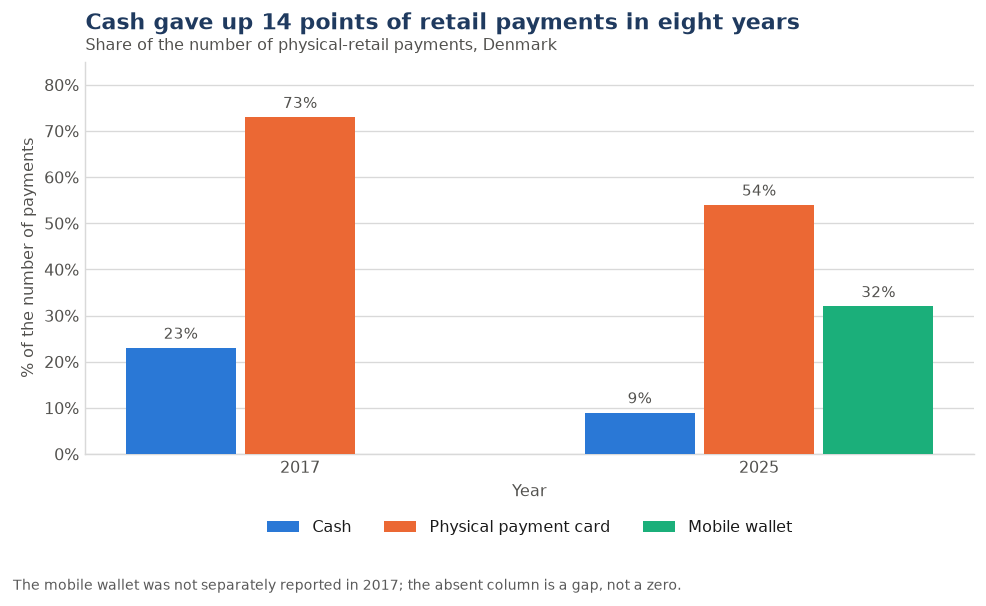
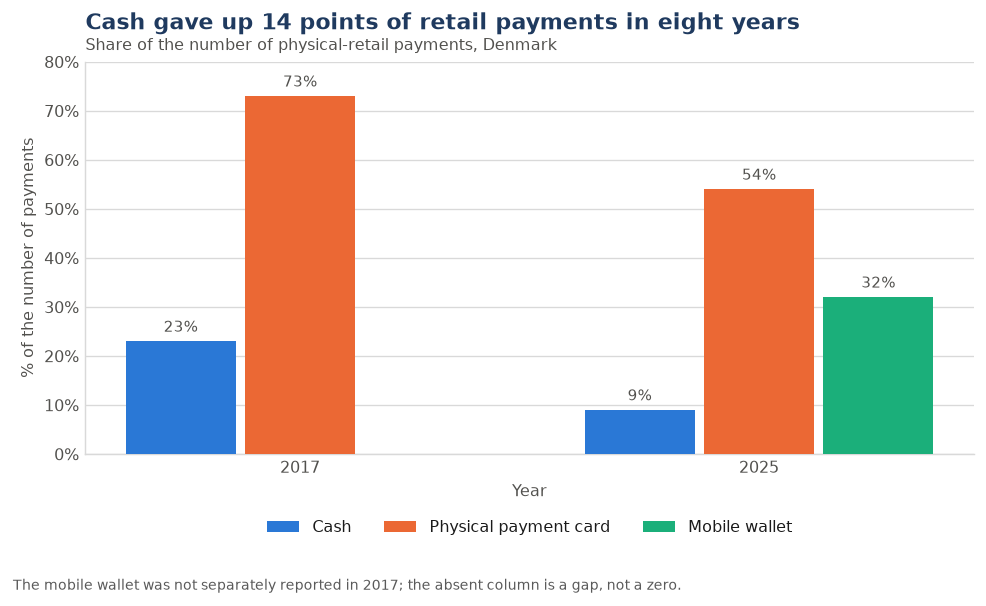
Fix the scatter joining its points, and stop Excel autoscaling the axes
Two defects found by opening the workbook in Excel, neither visible in
the matplotlib previews.

1. F6_ADOPT_BENEFIT joined all 18 countries with straight lines in row
   order, drawing a zigzag across the plot. The series was created with
   subtype "markers"; XlsxWriter keeps any truthy subtype string it is
   handed and only suppresses the connecting line for the exact subtype
   "marker_only", so the line was never turned off. Fixed by correcting
   the subtype and, independently of it, setting line:none on the series.

2. Every value axis was left to Excel's autoscale, which put the 57-96%
   adoption series on a 0-120% axis and wasted half the plot. All four
   charts now state their own bounds. The two ranking and share charts
   keep a zero baseline because their marks are bar lengths; the scatter
   does not, because neither of its axes is one.

Both are now asserted in verify_workbook.py against the generated file:
a scatter series may not carry a connecting line, and every numeric axis
must set an explicit min and max. 889 checks pass.

The preview module records why it missed both. matplotlib's scatter()
draws no lines and autoscales tightly, so it cannot reproduce a defect
that lives in how the workbook drives XlsxWriter. The previews are for
judging composition and colour; the verifier is what reads the .xlsx.

Preview axis bounds aligned to the Excel charts so the two correspond.

Claude-Session: https://claude.ai/code/session_01Ax7AbUhZ1yD3sdczLm4auu

diff --git a/data/build_workbook.py b/data/build_workbook.py
@@ -507,7 +507,13 @@ def base_chart(wb, kind, title, subtitle=None):
     return ch
 
 
-def axis(name, *, num_format=None, grid=False, cat=False):
+def axis(name, *, num_format=None, grid=False, cat=False, lo=None, hi=None):
+    """An axis with its bounds stated rather than left to Excel.
+
+    Excel's autoscale chose 0 to 120% for a value axis whose data spans 57 to
+    96%, which wastes half the plot and flattens the spread. Every value axis
+    here sets its own range.
+    """
     a = {
         "name": name,
         "name_font": {"name": style.FONT, "size": 10, "color": style.AXIS_INK},
@@ -523,6 +529,10 @@ def axis(name, *, num_format=None, grid=False, cat=False):
                             if grid else {"visible": False})
     if cat:
         a["label_position"] = "low"
+    if lo is not None:
+        a["min"] = lo
+    if hi is not None:
+        a["max"] = hi
     return a
 
 
@@ -596,7 +606,7 @@ def sheet_payments(wb, fmt):
         })
     ch.set_x_axis(axis("Year", cat=True))
     ch.set_y_axis(axis("% of the number of payments", num_format='0"%"',
-                       grid=True))
+                       grid=True, lo=0, hi=80))
     ch.set_legend(legend_bottom())
     ws.insert_chart(CHART_ROW, CHART_COL, ch)
 
@@ -675,7 +685,7 @@ def sheet_exclusion(wb, fmt):
                                  "color": style.AXIS_INK}},
     })
     ch.set_x_axis(axis("% of the stated population base", num_format='0"%"',
-                       grid=True))
+                       grid=True, lo=0, hi=28))
     ch.set_y_axis(axis("Measure", cat=True))
     ch.set_legend({"none": True})
     ws.insert_chart(CHART_ROW, CHART_COL, ch)
@@ -747,7 +757,8 @@ def sheet_eu27(wb, fmt):
     ch.combine(line)
 
     ch.set_x_axis(axis("Member state", cat=True))
-    ch.set_y_axis(axis("% of internet users", num_format='0"%"', grid=True))
+    ch.set_y_axis(axis("% of internet users", num_format='0"%"', grid=True,
+                       lo=0, hi=100))
     ch.set_legend(legend_bottom())
     ws.insert_chart(CHART_ROW, CHART_COL, ch)
 
@@ -828,13 +839,19 @@ def sheet_adopt_benefit(wb, fmt):
                 "Eurostat isoc_ec_ib20 and isoc_ec_evaln2. The pairing is "
                 "recomputed at build time from 02_MASTER.")
 
-    ch = base_chart(wb, {"type": "scatter", "subtype": "markers"},
+    # subtype MUST be "marker_only". XlsxWriter keeps any truthy subtype string
+    # it is given, and only suppresses the connecting line when the subtype is
+    # exactly that; an earlier "markers" left Excel joining the 18 points in row
+    # order, which drew a zigzag across the plot. The explicit line:none below
+    # makes the intent independent of the subtype name.
+    ch = base_chart(wb, {"type": "scatter", "subtype": "marker_only"},
                     "Adoption explains part of the outcome, not all of it",
                     f"EU, 2024. n = {n}, slope {slope:+.3f}, R-squared {r2:.3f}")
     ch.add_series({
         "name": "Member state",
         "categories": ["F6_ADOPT_BENEFIT", 4, 2, 3 + n, 2],
         "values": ["F6_ADOPT_BENEFIT", 4, 3, 3 + n, 3],
+        "line": {"none": True},
         "marker": {"type": "circle", "size": 8,
                    "fill": {"color": style.CONTEXT},
                    "border": {"color": "#FFFFFF", "width": 1.25}},
@@ -847,9 +864,9 @@ def sheet_adopt_benefit(wb, fmt):
                                "dash_type": "dash"}},
     })
     ch.set_x_axis(axis("Individuals who bought online (% of internet users)",
-                       num_format='0"%"', grid=True))
+                       num_format='0"%"', grid=True, lo=50, hi=100))
     ch.set_y_axis(axis("E-sales (% of enterprise turnover)", num_format='0"%"',
-                       grid=True))
+                       grid=True, lo=0, hi=40))
     ch.set_legend({"none": True})
     ws.insert_chart(CHART_ROW, CHART_COL, ch)
 

diff --git a/data/preview_charts.py b/data/preview_charts.py
@@ -16,6 +16,23 @@ axis ranges and the same labels as the chart specs in build_workbook.py, so the
 geometry and the colour decisions can be checked. They are NOT the Excel charts:
 Excel will differ in fonts, in spacing and in exact tick placement. Anything
 that depends on those has to be checked by opening the workbook.
+
+WHAT THESE PREVIEWS CANNOT CATCH - demonstrated, not hypothetical
+-----------------------------------------------------------------
+A preview drawn by a different library cannot catch a defect that lives in how
+the workbook drives XlsxWriter, because matplotlib is not asked the same
+question. Two got through to Excel and were found by opening it:
+
+  - the scatter was given subtype "markers" instead of "marker_only", so Excel
+    joined all 18 countries with straight lines in row order. matplotlib's
+    scatter() draws no lines, so the preview looked right.
+  - every value axis was left to Excel's autoscale, which put a 57-96% series on
+    a 0-120% axis. matplotlib autoscales tightly, so again the preview looked
+    right.
+
+Both are now asserted in verify_workbook.py, which reads the .xlsx rather than
+redrawing it - that is the check that generalises. These previews are for
+judging composition and colour, not for confirming the file is correct.
 """
 
 import os
@@ -90,7 +107,7 @@ def c1_payments(path):
     ax.set_xticklabels([str(y) for y in PAY_YEARS])
     ax.set_xlabel("Year")
     ax.set_ylabel("% of the number of payments")
-    ax.set_ylim(0, 85)
+    ax.set_ylim(0, 80)
     ax.yaxis.set_major_formatter(PCT)
     frame(ax)
     title(ax, "Cash gave up 14 points of retail payments in eight years",
@@ -188,6 +205,9 @@ def c4_adopt_benefit(path):
     lo, hi = min(xs) - 2, max(xs) + 2
     ax.plot([lo, hi], [intercept + slope * lo, intercept + slope * hi],
             color=style.NAVY, linewidth=1.25, linestyle="--", zorder=2)
+    # Same bounds the Excel chart sets, so the two correspond.
+    ax.set_xlim(50, 100)
+    ax.set_ylim(0, 40)
 
     ax.set_xlabel("Individuals who bought online (% of internet users)")
     ax.set_ylabel("E-sales (% of enterprise turnover)")

diff --git a/data/verify_workbook.py b/data/verify_workbook.py
@@ -185,6 +185,32 @@ def main():
                   f"{where} has no y-axis title")
             check(len(ch.series) > 0, f"{where} has no data series")
 
+            # A scatter series must not join its points. XlsxWriter keeps any
+            # truthy subtype string it is handed and only suppresses the
+            # connecting line for the exact subtype "marker_only", so a typo
+            # there had Excel drawing a zigzag through the 18 countries in row
+            # order. The workbook has no scatter where joining points is
+            # meaningful, so the rule is absolute.
+            if type(ch).__name__ == "ScatterChart":
+                for i, ser in enumerate(ch.series):
+                    gp = ser.graphicalProperties
+                    joined = not (gp is not None and gp.line is not None
+                                  and gp.line.noFill)
+                    check(not joined,
+                          f"{where} series {i} joins its points with a line; "
+                          f"a scatter of independent countries must not")
+
+            # Value axes state their own range. Excel's autoscale put a 57-96%
+            # series on a 0-120% axis, wasting half the plot.
+            for name, ax in (("x", ch.x_axis), ("y", ch.y_axis)):
+                if ax.delete or getattr(ax, "scaling", None) is None:
+                    continue
+                if type(ax).__name__ != "NumericAxis":
+                    continue
+                check(ax.scaling.min is not None and ax.scaling.max is not None,
+                      f"{where} {name}-axis has no explicit min/max, so Excel "
+                      f"will autoscale it")
+
             # -- 8. no chart sits on top of a populated cell ------------------
             r0, c0, r1, c1 = cell_extent(ch.anchor)
             collisions = []
